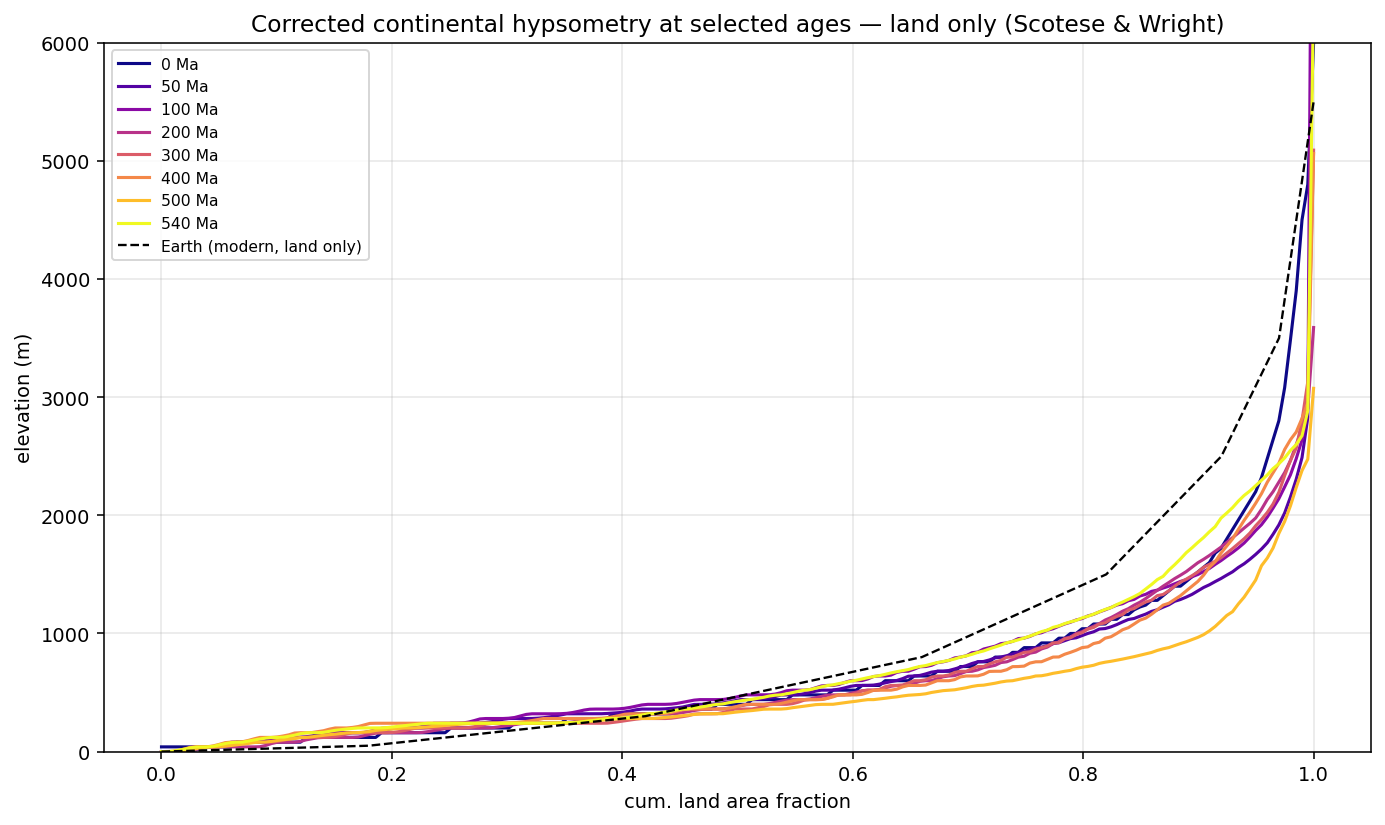
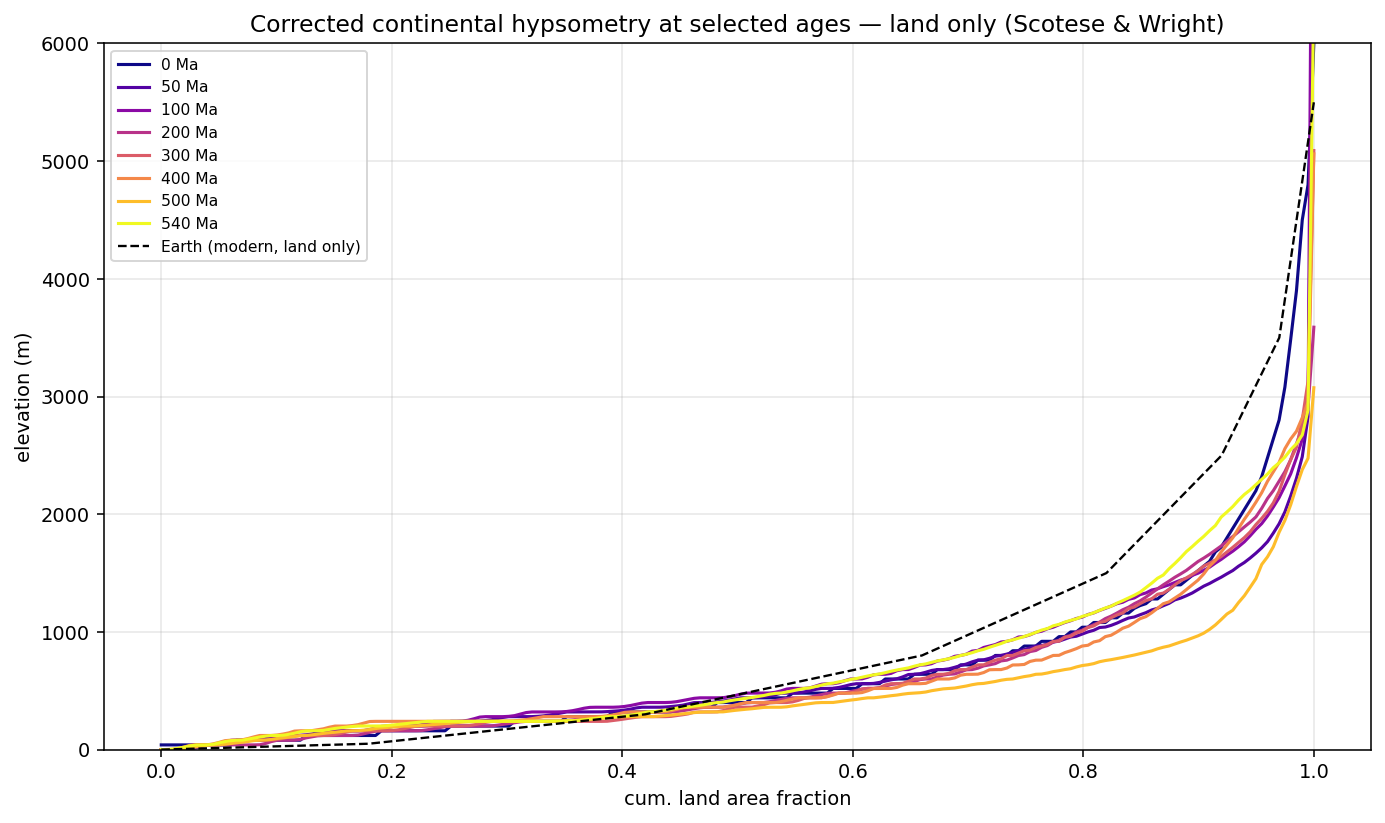
Taper geochem correction to zero at 0 Ma to remove young-age bypass artefact (YOUNG_TAPER_T_FULL=15 Ma)

diff --git a/scripts/assimilate_scotese.py b/scripts/assimilate_scotese.py
@@ -194,6 +194,29 @@ W_MISSING_OVER40 = 0.25
 # zero-elevation cells in the rendered map.
 SUBAERIAL_FLOOR_M = 1.0
 
+# --- Young-age correction taper --------------------------------------------
+# At 0 Ma the assimilation is bypassed entirely (M_corrected = M_orig): the
+# present-day DEM is observed directly and must not be altered.  But the
+# geochem correction is at full amplitude the instant one steps off 0 Ma
+# (delta ~ +100 m mean over land at 5 Ma), so a chained / time-stepping
+# consumer of the corrected DEMs (e.g. a stepwise landscape-evolution model)
+# sees a broad continental step appear across the 0<->5 Ma boundary that is
+# an artefact of the bypass, not tectonics.  The method was designed to
+# amplitude-correct the kinematic prior in DEEP time, where the sparse
+# geochem samples are spatially bled into a geologically plausible field;
+# the youngest Cenozoic (plates near modern positions, S&W already close to
+# truth) never needed it, and the abrupt 0-Ma switch was an unintended
+# side effect.
+#
+# We therefore taper the correction smoothly to zero as t -> 0 over a short
+# young-age window: ramp(t) = min(1, t / YOUNG_TAPER_T_FULL).  This leaves
+# 0 Ma untouched (ramp = 0, i.e. the existing bypass), leaves ages
+# >= YOUNG_TAPER_T_FULL untouched (ramp = 1, full correction), and blends
+# partial corrections in between so no single step carries the full jump.
+# It is a per-age, same-frame rescale of the (M_final - M_orig) field, so it
+# is independent of plate motion.  Set YOUNG_TAPER_T_FULL = 0.0 to disable.
+YOUNG_TAPER_T_FULL = 15.0
+
 # Depth at which corrections fade to zero in submerged cells.  Replaces
 # the previous binary "still-submerged → revert to M_orig" guard, which
 # created a step-function discontinuity at the M_orig=0 coastline
@@ -872,6 +895,42 @@ def finalise(M_orig, M_cand, cont_mask):
 
 
 # ---------------------------------------------------------------------------
+# Young-age correction taper
+# ---------------------------------------------------------------------------
+def young_taper_ramp(t):
+    """Linear taper weight for the geochem correction near present day.
+
+    0 at 0 Ma (the present-day bypass), rising linearly to 1 at
+    YOUNG_TAPER_T_FULL, and clamped to 1 for older ages.  See the
+    YOUNG_TAPER_T_FULL comment block for the rationale.
+    """
+    if YOUNG_TAPER_T_FULL is None or YOUNG_TAPER_T_FULL <= 0:
+        return 1.0
+    return float(min(1.0, max(0.0, t / YOUNG_TAPER_T_FULL)))
+
+
+def apply_young_taper(t, M_orig, M_final, cont_mask):
+    """Scale the assimilation correction (M_final - M_orig) by the young-age
+    ramp, re-applying finalise()'s invariants (safety bounds, ocean =
+    M_orig, subaerial floor).  A no-op for ages >= YOUNG_TAPER_T_FULL.
+
+    This is a same-age, per-cell rescale of the correction field, so it
+    carries no plate-motion dependence: it only changes HOW MUCH of the
+    already-computed correction is applied at young ages, never WHERE.
+    """
+    r = young_taper_ramp(t)
+    if r >= 1.0:
+        return M_final
+    delta = (M_final - M_orig) * r            # shrink toward the S&W prior
+    Mt = np.clip(M_orig + delta, ZMIN, ZMAX)
+    Mt = np.where(cont_mask, Mt, M_orig)      # ocean untouched
+    was_subaerial = (M_orig > 0)
+    Mt = np.where(was_subaerial & (Mt < SUBAERIAL_FLOOR_M),
+                  SUBAERIAL_FLOOR_M, Mt)
+    return Mt
+
+
+# ---------------------------------------------------------------------------
 # Per-slice orchestrator
 # ---------------------------------------------------------------------------
 def assimilate_one(t, save_nc=True):
@@ -1028,6 +1087,18 @@ def assimilate_one(t, save_nc=True):
         r, n_eff_grid = smoothed_residual(M3, P_g, dec, lat, lon, cont, ls_km=RESID_LS_KM)
         M_final = finalise(M, M3 + r, cont)
 
+    # Young-age correction taper: ramp the geochem correction to zero at
+    # 0 Ma (removes the present-day-bypass discontinuity for chained /
+    # time-stepping consumers).  No-op for t >= YOUNG_TAPER_T_FULL, and the
+    # 0 Ma slice already returned via the bypass above.  Applied before the
+    # diagnostics so the reported bias/RMS/p99/Δ_rms and the written grid
+    # describe the same (tapered) field.
+    _r_taper = young_taper_ramp(t)
+    if _r_taper < 1.0:
+        M_final = apply_young_taper(t, M, M_final, cont)
+        print(f"             young-age taper: ramp({t:.0f} Ma)={_r_taper:.3f} "
+              f"→ correction scaled to {100*_r_taper:.0f} %")
+
     elapsed = time.time() - t0
     # Diagnostics
     bias_before = bias_after = rms_before = rms_after = np.nan
@@ -1075,6 +1146,8 @@ def assimilate_one(t, save_nc=True):
                         f"local_support_km={LOCAL_SUPPORT_KM}; "
                         f"depth_fade_m={DEPTH_FADE_M}; "
                         f"classifier={PROVINCE_CLASSIFIER}")
+            f.young_taper_t_full_Ma = float(YOUNG_TAPER_T_FULL)
+            f.young_taper_ramp = float(young_taper_ramp(t))
     return summary, M, M_final, P_g, cont, dec
 
 

diff --git a/README.md b/README.md
@@ -274,6 +274,29 @@ production values used for the Phanerozoic sweep released with the paper:
 | `FINAL_LAND_SMOOTH_SIGMA` | 0.0 (disabled) | optional subaerial-only Gaussian on M_corrected |
 | `CONT_MASK_CLOSING_ITER` | 6 | morphological closing iterations on the continent mask (fills polygon gaps up to ~12 cells wide) |
 
+### Young-age correction taper
+
+| Parameter | Default | Role |
+|---|---|---|
+| `YOUNG_TAPER_T_FULL` | 15 Ma | age by which the geochem correction reaches full strength; it is ramped linearly to zero at 0 Ma (`0.0` disables the taper) |
+
+At 0 Ma the assimilation is bypassed by design — the present-day DEM is
+observed directly and must not be altered, so `delta ≡ 0`.  Without a
+taper the correction jumps to its full amplitude (`delta ≈ +100 m` mean
+over land) at the very next slice (5 Ma), so a chained or time-stepping
+consumer of the corrected DEMs (e.g. a stepwise landscape-evolution
+model) sees a broad continental step appear across the 0↔5 Ma boundary
+that is an artefact of the bypass rather than tectonics.  The method was
+designed to amplitude-correct the kinematic prior in *deep* time, where
+sparse geochem samples are spatially bled into a geologically plausible
+field; the youngest Cenozoic — plates near their modern positions, S&W
+already close to truth — never required it.  `YOUNG_TAPER_T_FULL` ramps
+the correction `ramp(t) = min(1, t / T_full)` so it grows smoothly from
+the fixed 0 Ma DEM instead of switching on abruptly.  Because it is a
+per-age, same-frame rescale of `M_corrected − M_orig`, it is independent
+of plate motion, leaves ages ≥ `T_full` unchanged, and only affects the
+5 and 10 Ma slices at the default value.
+
 ### Continent / province classification
 
 | Parameter | Default | Role |